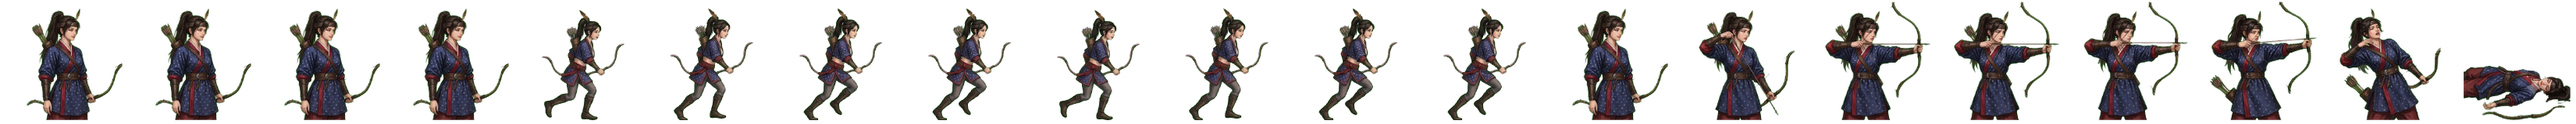
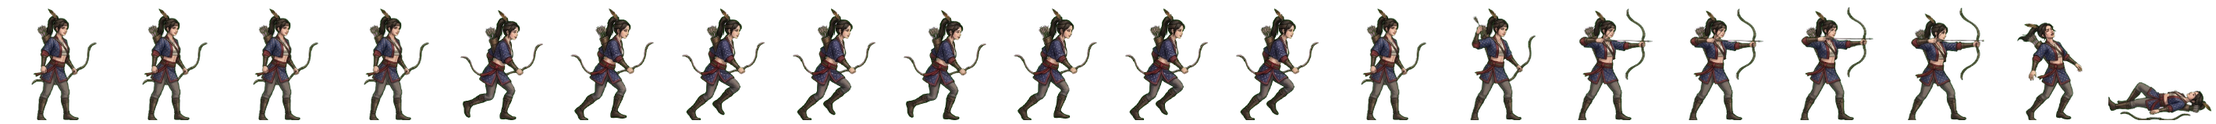
전투 띠 새로: 고구려 미르 동작 다시 · 걷기와 같은 옷·같은 크기 (11-09 검수) (형 11-08)
Claude-Session: https://claude.ai/code/session_01TRiuNAG8xSjdmjCFpc8Rd5

Changed region(s): [[0.0, 0.0625, 1.0, 0.9688]]

diff --git a/src/ui/realm/battle-strikes.ts b/src/ui/realm/battle-strikes.ts
@@ -143,7 +143,7 @@ const CONTACT: Readonly<Record<string, [number, number, number]>> = {
   'gen-haebi': [14, 0.87, 0.53], 'gen-heo': [14, 0.94, 0.46], 'gen-hyeokgeose': [14, 0.83, 0.94],
   'gen-hyeopbo': [14, .93, .21], 'gen-malgalgi': [14, 0.88, 0.28], 'gen-mari': [14, .98, .47],
   'gen-oi': [14, .98, .48], 'gen-onjo': [14, 0.83, 0.93], 'gen-soebi': [14, 0.80, 0.95],
-  'gen-soseono': [14, 0.92, 0.31], 'gen-maryeo': [14, 0.91, 0.79], 'gen-horselord': [14, 0.89, 0.25], 'gen-olddaeso': [14, 0.93, 0.91], 'gen-maro': [14, 0.97, 0.49], 'gen-gwaeyu': [14, 0.98, 0.71], 'gen-daemusin': [14, 0.91, 0.38], 'gen-tahae': [14, 0.91, 0.74], 'gen-ocheongan': [14, 0.82, 0.49], 'gen-yusugan': [14, 0.95, 0.70], 'gen-odogan': [14, 0.93, 0.28], 'gen-pidogan': [14, 0.94, 0.75], 'gen-yeodogan': [14, 0.93, 0.57], 'gen-adogan': [14, 0.95, 0.41], 'gen-musoe': [14, 0.94, 0.39], 'gen-suro': [14, 0.82, 0.53], 'gen-waechief': [14, 0.95, 0.68], 'gen-hojin': [14, 0.97, 0.64], 'gen-jita': [14, 0.94, 0.34], 'gen-guryema': [14, 0.89, 0.28], 'gen-jibaekho': [14, 0.97, 0.33], 'gen-sobeol': [14, 0.95, 0.33], 'gen-alpyeong': [14, 0.95, 0.54], 'gen-hogong': [14, 0.98, 0.27], 'gen-geumbawi': [14, 0.91, 0.92], 'gen-keundol': [14, 0.90, 0.68], 'gen-jinha': [14, 0.76, 0.93], 'gen-duman': [14, 0.97, 0.39], 'gen-gomok': [14, 0.94, 0.57], 'gen-hneoul': [14, 0.92, 0.27], 'gen-tneoul': [14, 0.84, 0.57], 'gen-sdallae': [14, 0.89, 0.29], 'gen-yucheongan': [14, 0.97, 0.64], 'gen-sincheongan': [14, 0.91, 0.71], 'gen-singwigan': [14, 0.91, 0.27], 'gen-mdallae': [14, 0.98, 0.30], 'gen-mulbeom': [14, 0.97, 0.36], 'gen-beomi': [14, 0.88, 0.43], 'gen-danbi': [14, 0.90, 0.30], 'gen-mulsae': [14, 0.87, 0.36], 'gen-darae': [14, 0.89, 0.29], 'gen-mir': [14, 0.98, 0.35], 'gen-wan': [14, 0.94, 0.30], 'gen-gom': [14, 0.94, 0.74], 'gen-sagong': [14, 0.79, 0.96], 'gen-halla': [14, 0.86, 0.46], 'gen-areum': [14, 0.86, 0.65], 'gen-dokmudeom': [14, 0.92, 0.29], 'gen-beom': [14, 0.98, 0.28], 'gen-baram': [14, 0.96, 0.24], 'gen-goeun': [14, 0.95, 0.66], 'gen-byeol': [14, 0.76, 0.96], 'gen-sinneoul': [14, 0.94, 0.33], 'gen-haesol': [14, 0.94, 0.34], 'gen-odi': [14, 0.91, 0.39], 'gen-irang': [14, 0.86, 0.30], 'gen-dalli': [14, 0.89, 0.32], 'gen-bakdal': [14, 0.94, 0.27], 'gen-noeul': [14, 0.88, 0.27], 'gen-maehwa': [14, 0.90, 0.31], 'gen-gaon': [14, 0.98, 0.41], 'gen-eomni': [14, 0.96, 0.42], 'gen-nuri': [14, 0.98, 0.34], 'gen-bira': [14, 0.88, 0.33], 'gen-gureum': [14, 0.98, 0.42],
+  'gen-soseono': [14, 0.92, 0.31], 'gen-maryeo': [14, 0.91, 0.79], 'gen-horselord': [14, 0.89, 0.25], 'gen-olddaeso': [14, 0.93, 0.91], 'gen-maro': [14, 0.97, 0.49], 'gen-gwaeyu': [14, 0.98, 0.71], 'gen-daemusin': [14, 0.91, 0.38], 'gen-tahae': [14, 0.91, 0.74], 'gen-ocheongan': [14, 0.82, 0.49], 'gen-yusugan': [14, 0.95, 0.70], 'gen-odogan': [14, 0.93, 0.28], 'gen-pidogan': [14, 0.94, 0.75], 'gen-yeodogan': [14, 0.93, 0.57], 'gen-adogan': [14, 0.95, 0.41], 'gen-musoe': [14, 0.94, 0.39], 'gen-suro': [14, 0.82, 0.53], 'gen-waechief': [14, 0.95, 0.68], 'gen-hojin': [14, 0.97, 0.64], 'gen-jita': [14, 0.94, 0.34], 'gen-guryema': [14, 0.89, 0.28], 'gen-jibaekho': [14, 0.97, 0.33], 'gen-sobeol': [14, 0.95, 0.33], 'gen-alpyeong': [14, 0.95, 0.54], 'gen-hogong': [14, 0.98, 0.27], 'gen-geumbawi': [14, 0.91, 0.92], 'gen-keundol': [14, 0.90, 0.68], 'gen-jinha': [14, 0.76, 0.93], 'gen-duman': [14, 0.97, 0.39], 'gen-gomok': [14, 0.94, 0.57], 'gen-hneoul': [14, 0.92, 0.27], 'gen-tneoul': [14, 0.84, 0.57], 'gen-sdallae': [14, 0.89, 0.29], 'gen-yucheongan': [14, 0.97, 0.64], 'gen-sincheongan': [14, 0.91, 0.71], 'gen-singwigan': [14, 0.91, 0.27], 'gen-mdallae': [14, 0.98, 0.30], 'gen-mulbeom': [14, 0.97, 0.36], 'gen-beomi': [14, 0.88, 0.43], 'gen-danbi': [14, 0.90, 0.30], 'gen-mulsae': [14, 0.87, 0.36], 'gen-darae': [14, 0.89, 0.29], 'gen-mir': [14, 0.91, 0.33], 'gen-wan': [14, 0.94, 0.30], 'gen-gom': [14, 0.94, 0.74], 'gen-sagong': [14, 0.79, 0.96], 'gen-halla': [14, 0.86, 0.46], 'gen-areum': [14, 0.86, 0.65], 'gen-dokmudeom': [14, 0.92, 0.29], 'gen-beom': [14, 0.98, 0.28], 'gen-baram': [14, 0.96, 0.24], 'gen-goeun': [14, 0.95, 0.66], 'gen-byeol': [14, 0.76, 0.96], 'gen-sinneoul': [14, 0.94, 0.33], 'gen-haesol': [14, 0.94, 0.34], 'gen-odi': [14, 0.91, 0.39], 'gen-irang': [14, 0.86, 0.30], 'gen-dalli': [14, 0.89, 0.32], 'gen-bakdal': [14, 0.94, 0.27], 'gen-noeul': [14, 0.88, 0.27], 'gen-maehwa': [14, 0.90, 0.31], 'gen-gaon': [14, 0.98, 0.41], 'gen-eomni': [14, 0.96, 0.42], 'gen-nuri': [14, 0.98, 0.34], 'gen-bira': [14, 0.88, 0.33], 'gen-gureum': [14, 0.98, 0.42],
   'gen-biryu': [14, 0.90, 0.35], 'gen-geumha': [14, 0.94, 0.61], 'gen-geota': [14, 0.86, 0.47], 'gen-soebo': [14, 0.87, 0.57],
   'gen-gaennae': [14, 249 / 264, 47 / 160],
   'gen-budeul': [14, 266 / 280, 51 / 160],

diff --git a/src/realm/data/art.ts b/src/realm/data/art.ts
@@ -531,7 +531,7 @@ export const GEN_ANIM: Readonly<Partial<Record<string, { ar: number; body: numbe
   sagong: { ar: 159 / 160, body: 0.900 }, // 11-08 초상대로 다시 (형: 「투구 쓰고 원본과 다르다」 · 제미나이 걷기 4×2 + 동작 4×2 → 20컷 · assets_src/realm/gemini/generals2) · 11-08 처음 · 사물 사공(푸른 천으로 묶은 머리·푸른 조끼·밧줄 타래·조개 목걸이·나무 노 내려치기)
   gom: { ar: 163 / 160, body: 0.906 }, // 11-08 초상대로 다시 (형: 「투구 쓰고 원본과 다르다」 · 제미나이 걷기 4×2 + 동작 4×2 → 20컷 · assets_src/realm/gemini/generals2) · 11-08 처음 · 웅천 곰(땋은 머리·갈색 곰 털 망토·짧은 가죽 윗옷·털 치마·큰 나무 몽둥이 내려치기)
   wan: { ar: 145 / 160, body: 0.906, bow: true }, // 11-08 초상대로 다시 (형: 「투구 쓰고 원본과 다르다」 · 제미나이 걷기 4×2 + 동작 4×2 → 20컷 · assets_src/realm/gemini/generals2) · 11-08 처음 · 완산 완(흰 깃·초록 끈 말총머리·이끼빛 짧은 저고리·맥궁 · 준비→만작→발사→피격→쓰러짐)
-  mir: { ar: 165 / 160, body: 0.900, bow: true }, // 11-08 초상대로 다시 (형: 「투구 쓰고 원본과 다르다」 · 제미나이 걷기 4×2 + 동작 4×2 → 20컷 · assets_src/realm/gemini/generals2) · 11-08 처음 · 고구려 미르(꿩깃 말총머리·쪽빛 점무늬 저고리·붉은 띠·맥궁 · 준비→만작→발사→피격→쓰러짐)
+  mir: { ar: 142 / 160, body: 0.900, bow: true }, // 11-08 초상대로 다시 (형: 「투구 쓰고 원본과 다르다」 · 제미나이 걷기 4×2 + 동작 4×2 → 20컷 · assets_src/realm/gemini/generals2) · 11-08 처음 · 고구려 미르 동작 다시 · 걷기와 같은 옷·같은 크기 (11-09 검수)
   darae: { ar: 150 / 160, body: 0.906, bow: true }, // 11-08 초상대로 다시 (형: 「투구 쓰고 원본과 다르다」 · 제미나이 걷기 4×2 + 동작 4×2 → 20컷 · assets_src/realm/gemini/generals2) · 11-08 처음 · 부여 다래(흰 여우털 모자·털 두른 사슴 가죽 겉옷·짧은 털 치마·맥궁 · 준비→만작→발사→피격→쓰러짐)
   mulsae: { ar: 162 / 160, body: 0.900 }, // 11-08 초상대로 다시 (형: 「투구 쓰고 원본과 다르다」 · 제미나이 걷기 4×2 + 동작 4×2 → 20컷 · assets_src/realm/gemini/generals2) · 11-08 처음 · 양산 물새(올린 머리·민소매 하늘빛 윗옷·트인 흰 치마·창 찌르기)
   danbi: { ar: 146 / 160, body: 0.906, bow: true }, // 11-08 초상대로 다시 (형: 「투구 쓰고 원본과 다르다」 · 제미나이 걷기 4×2 + 동작 4×2 → 20컷 · assets_src/realm/gemini/generals2) · 11-08 처음 · 사로 단비(흰 끈 말총머리·초록 테 흰 짧은 윗옷·맥궁 · 준비→만작→발사→피격→쓰러짐)
